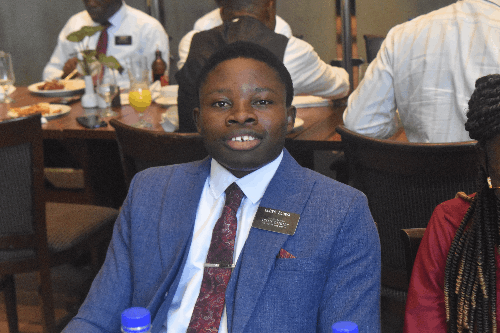
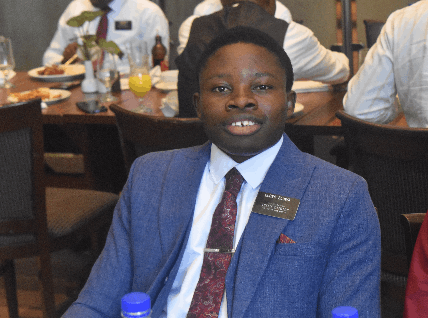
adjusted css

diff --git a/ergasbasher-portfolio/young-tech-experts.html b/ergasbasher-portfolio/young-tech-experts.html
@@ -28,7 +28,7 @@
             <h1 style="text-align: center; color: #0A3A6B;">Young Tech Experts</h1>
             <section class="body-section">
                 <h2>Ergas Basher Tech Group</h2>
-                <div class="body-image"><img src="images/entire_team.png" alt="eluwa team"></div>
+                <div class="body-image"><img src="images/clasp-on-pc.png" alt="eluwa team"></div>
                 <div class="body-para"><p>The Importance of Hiring a Young Tech Expert At Ergas Basher Tech Group, we are a group of young Talents from diverse backgrounds and with varying skills sets.
                     _Our Leader: Eluwa Monday_
                     While tech skills are valuable for businesses, there's an added advantage in hiring young tech experts. Here's why they should be on every business owner's radar:

diff --git a/ergasbasher-portfolio/styles/styles.css b/ergasbasher-portfolio/styles/styles.css
@@ -303,9 +303,9 @@ footer a:hover {
 
 .body-image {
     margin-bottom: 20px; 
-    max-width: 100%;
+  width: 50%;
     margin-right: 50px;
-    width: 400px;
+    width: 300px;
     box-shadow: 0 4px 8px rgba(0, 0, 0, 0.1);
     border-radius: 10px;
     transition: transform 0.2s ease-in-out
@@ -342,7 +342,7 @@ footer a:hover {
  } 
 
 .body-section h2 {
-    color: #0A3A6B;
+    color: #f8f9fa;
     font-size: 24px;
     margin-bottom: 10px;
 }
@@ -375,15 +375,7 @@ footer a:hover {
     .body-section h2 {
         grid-column: 1/2;
     }
-    .body-section {
-        display: grid;
-        grid-template-columns: 1fr;
-        align-items: center;
-        padding: 20px;
-        border-radius: 10px;
-        margin-bottom: 50px;
 
-    }
   }
 
 
